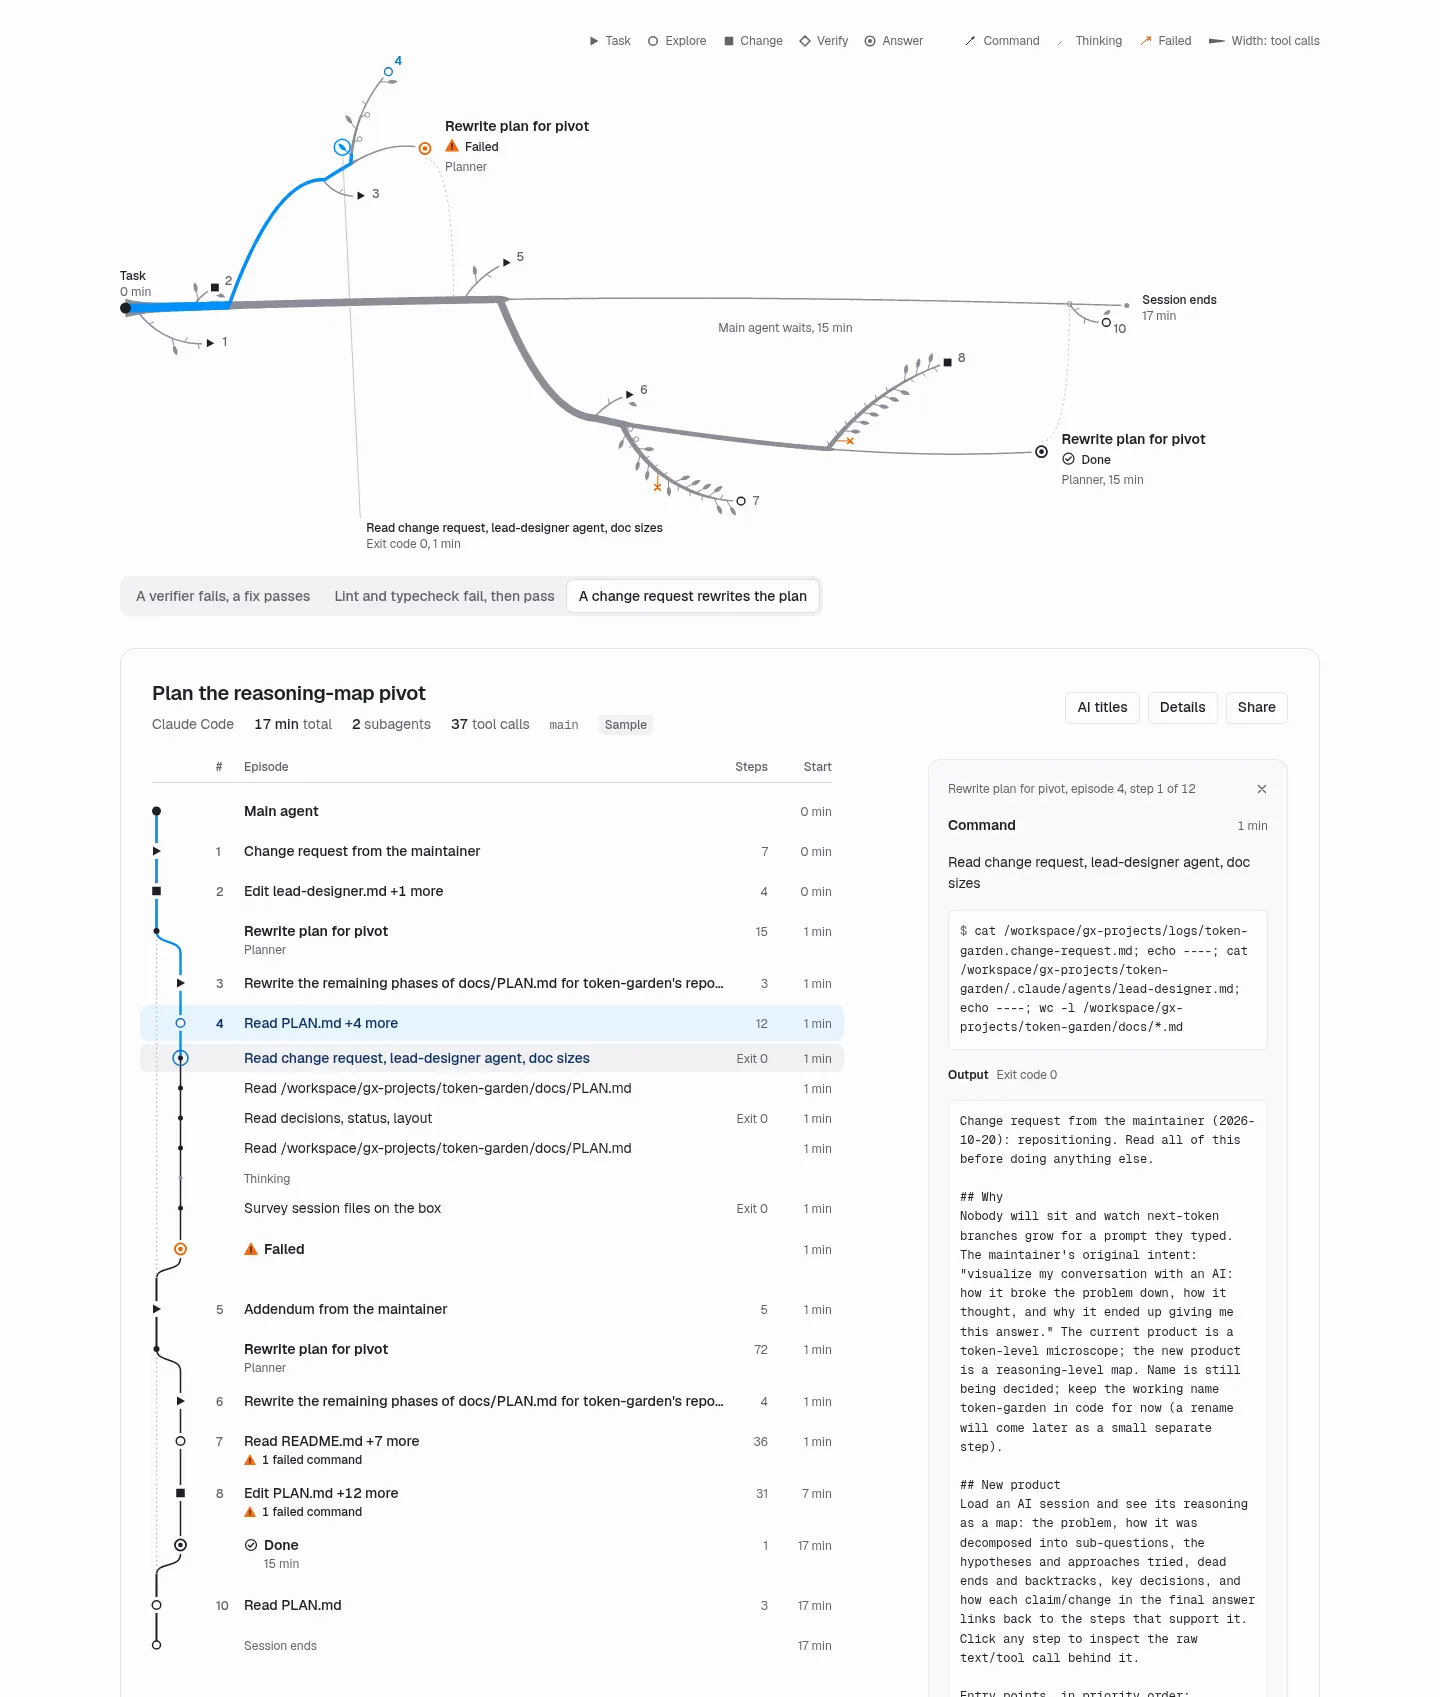
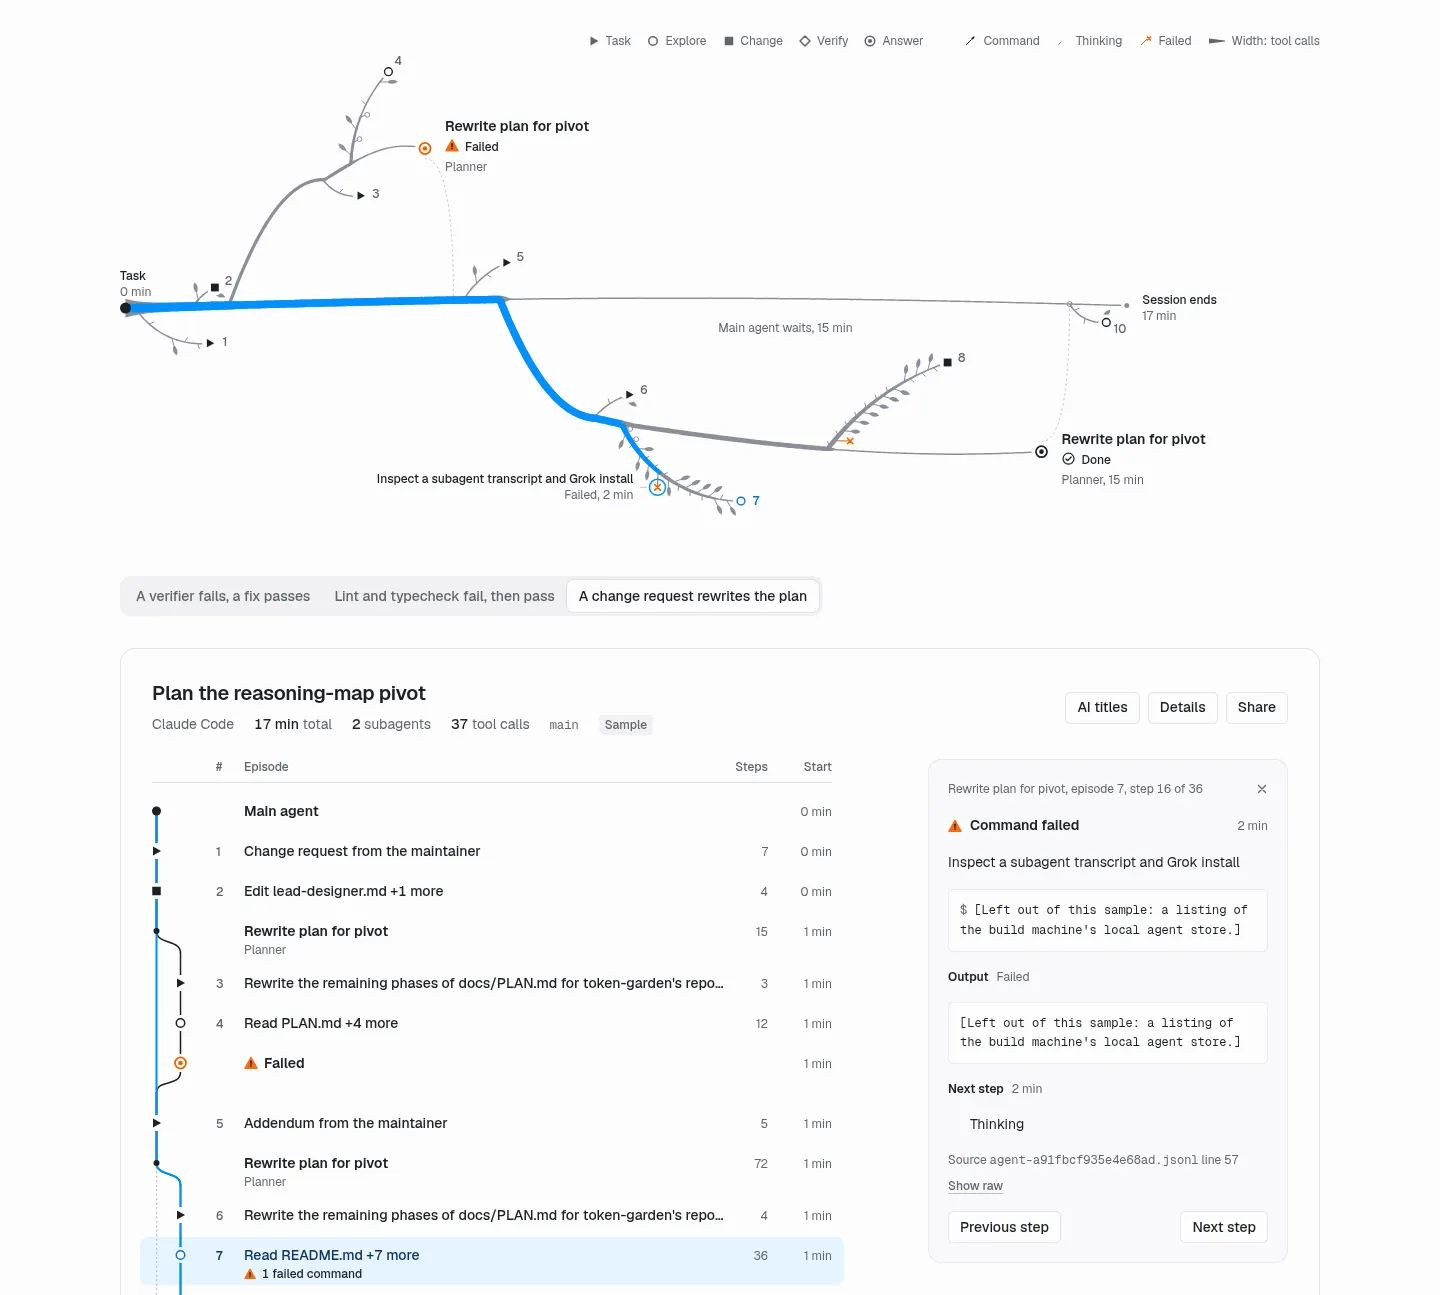
Examples: planner-pivot image retaken on s56, a failed command whose callout sits beside it; link and alt text updated

diff --git a/examples/README.md b/examples/README.md
@@ -42,9 +42,9 @@ What to notice:
 
 **Plan the reasoning-map pivot.** The main agent and two planner runs: 113 steps and 37 tool calls over about 17 minutes.
 
-![The planner-pivot map with step s17 selected, the first planner run's first read: the blue path runs from the root up that run's limb, which ends in an orange verdict; a second limb below is the planner run again; the list has the episode open with the read highlighted, and the step panel shows the file it read.](img/planner-pivot.webp)
+![The planner-pivot map with step s56 selected, a failed command in the second planner run: the blue path runs from the root along the trunk and down that run's limb to episode 7, where the step's ring carries an orange ✕ and its callout, "Inspect a subagent transcript and Grok install" over "Failed, 2 min", sits beside it; the first planner run's limb above ends in an orange "Failed" verdict; the list has episode 7 highlighted with "1 failed command", and the step panel says "Command failed" with the command, its output and the next step.](img/planner-pivot.webp)
 
-Open it: [planner-pivot map at the first planner run’s first read](https://reasontrail.geekplux.com/?session=planner-pivot&step=s17) (`?session=planner-pivot&step=s17`)
+Open it: [planner-pivot map at a failed command in the second planner run](https://reasontrail.geekplux.com/?session=planner-pivot&step=s56) (`?session=planner-pivot&step=s56`)
 
 What to notice:
 
